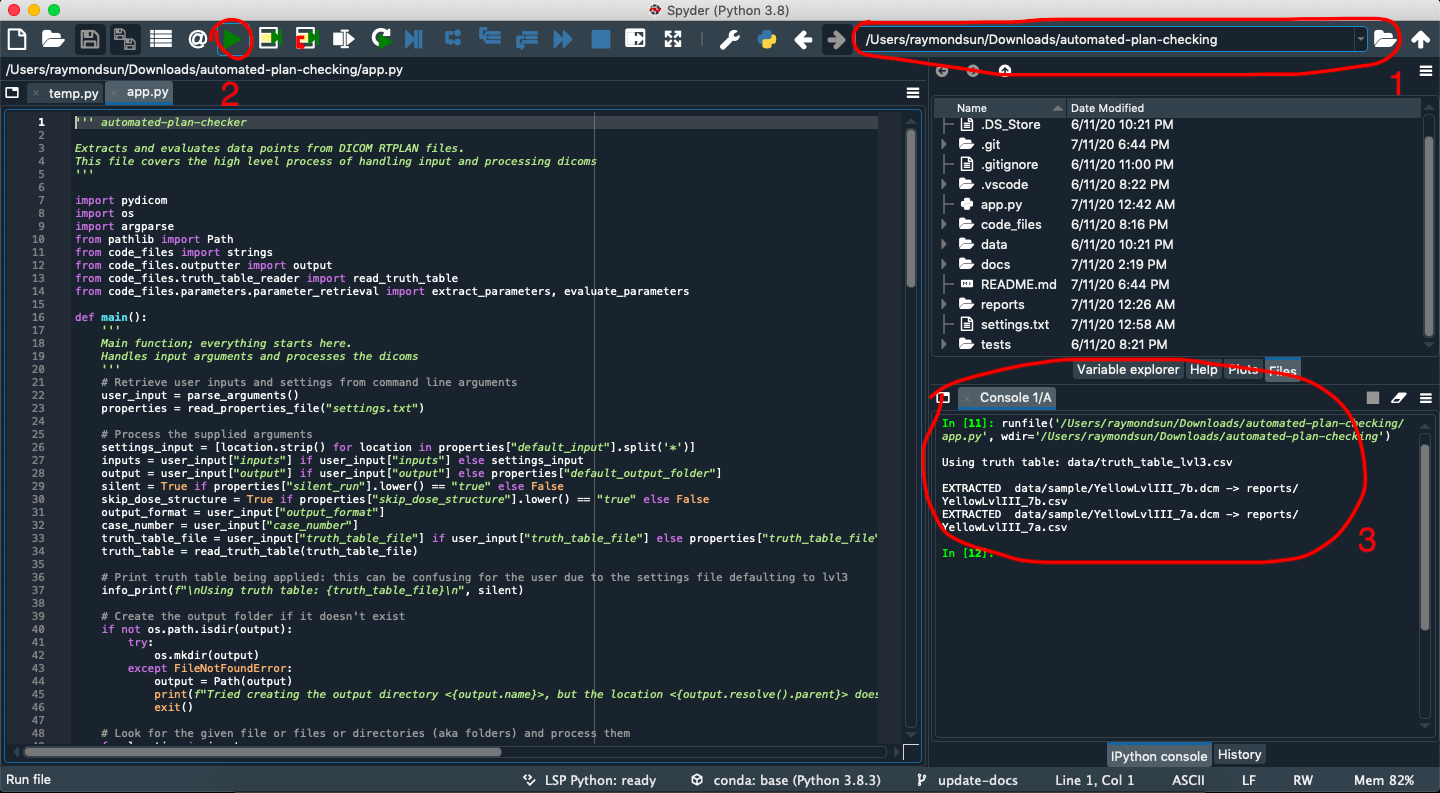
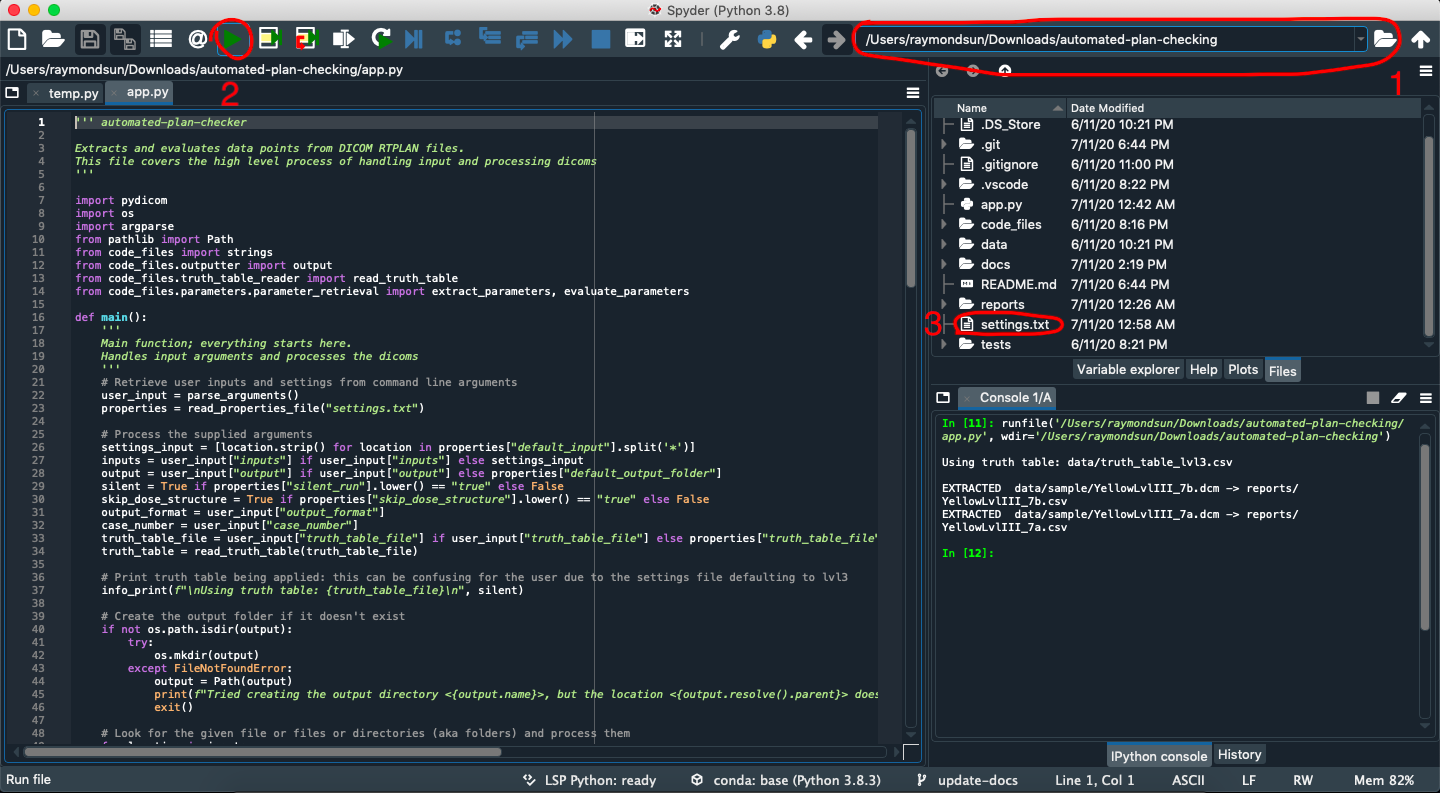
Edit run image and slight improvement to readme punctuation

diff --git a/README.md b/README.md
@@ -73,7 +73,7 @@ Without Anaconda, it's also possible to set up directly through the command line
 
 ### Usage
 
-1. In Spyder, navigate to the directory in which the program is saved and open app.py
+1. In Spyder, navigate to the directory in which the program is saved and open *app.py*.
 2. Click Run. On a fresh install from github, it will run the program on sample dicoms in the data/ folder.
 ![Running in spyder](docs/images/running-in-spyder.png)
     - In the image above, the program folder was renamed from automated-plan-checking-master to automated-plan-checking.
